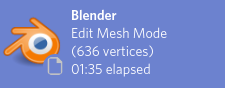
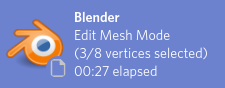
Add selected vertices/bones information

diff --git a/discordrpblender.py b/discordrpblender.py
@@ -122,7 +122,7 @@ def set_activity():
 
     if bpy.context.mode == "OBJECT" and active != 2:
         count = len(bpy.data.objects)
-        activity['state'] = '(' + str(count) + ' ' + ("object" if count == 1 else "objects") + ')'
+        activity['state'] = '(' + str(len(bpy.context.selected_objects)) + '/' + str(count) + ' ' + ("object" if count == 1 else "objects") + ' selected)'
     else:
         if active != 2:
             ob = bpy.context.object
@@ -130,13 +130,15 @@ def set_activity():
 
             if ob.type == "MESH":
                 count = len(bpy.context.object.data.vertices)
-                activity['state'] = '(' + str(count) + ' ' + ("vertex" if count == 1 else "vertices") + ')'
+                selected = len([v.index for v in bpy.context.object.data.vertices if v.select])
+                activity['state'] = '(' + str(selected) + '/' + str(count) + ' ' + ("vertex" if count == 1 else "vertices") + ' selected)'
             elif ob.type == "ARMATURE":
                 count = len(bpy.context.object.data.bones)
-                activity['state'] = '(' + str(count) + ' ' + ("bone" if count == 1 else "bones") + ')'
+                selected = len([b.name for b in bpy.context.object.data.bones if b.select])
+                activity['state'] = '(' + str(selected) + '/' + str(count) + ' ' + ("bone" if count == 1 else "bones") + ')'
                 
         else:
-            activity['state'] = "Frame " + str(bpy.context.scene.frame_current) + " / " + str(bpy.context.scene.frame_end - bpy.context.scene.frame_start)
+            activity['state'] = "Frame " + str(bpy.context.scene.frame_current) + "/" + str(bpy.context.scene.frame_end - bpy.context.scene.frame_start)
 
     if showTimeElapsed == True:
         activity['timestamps']['start'] = timeElapsed
